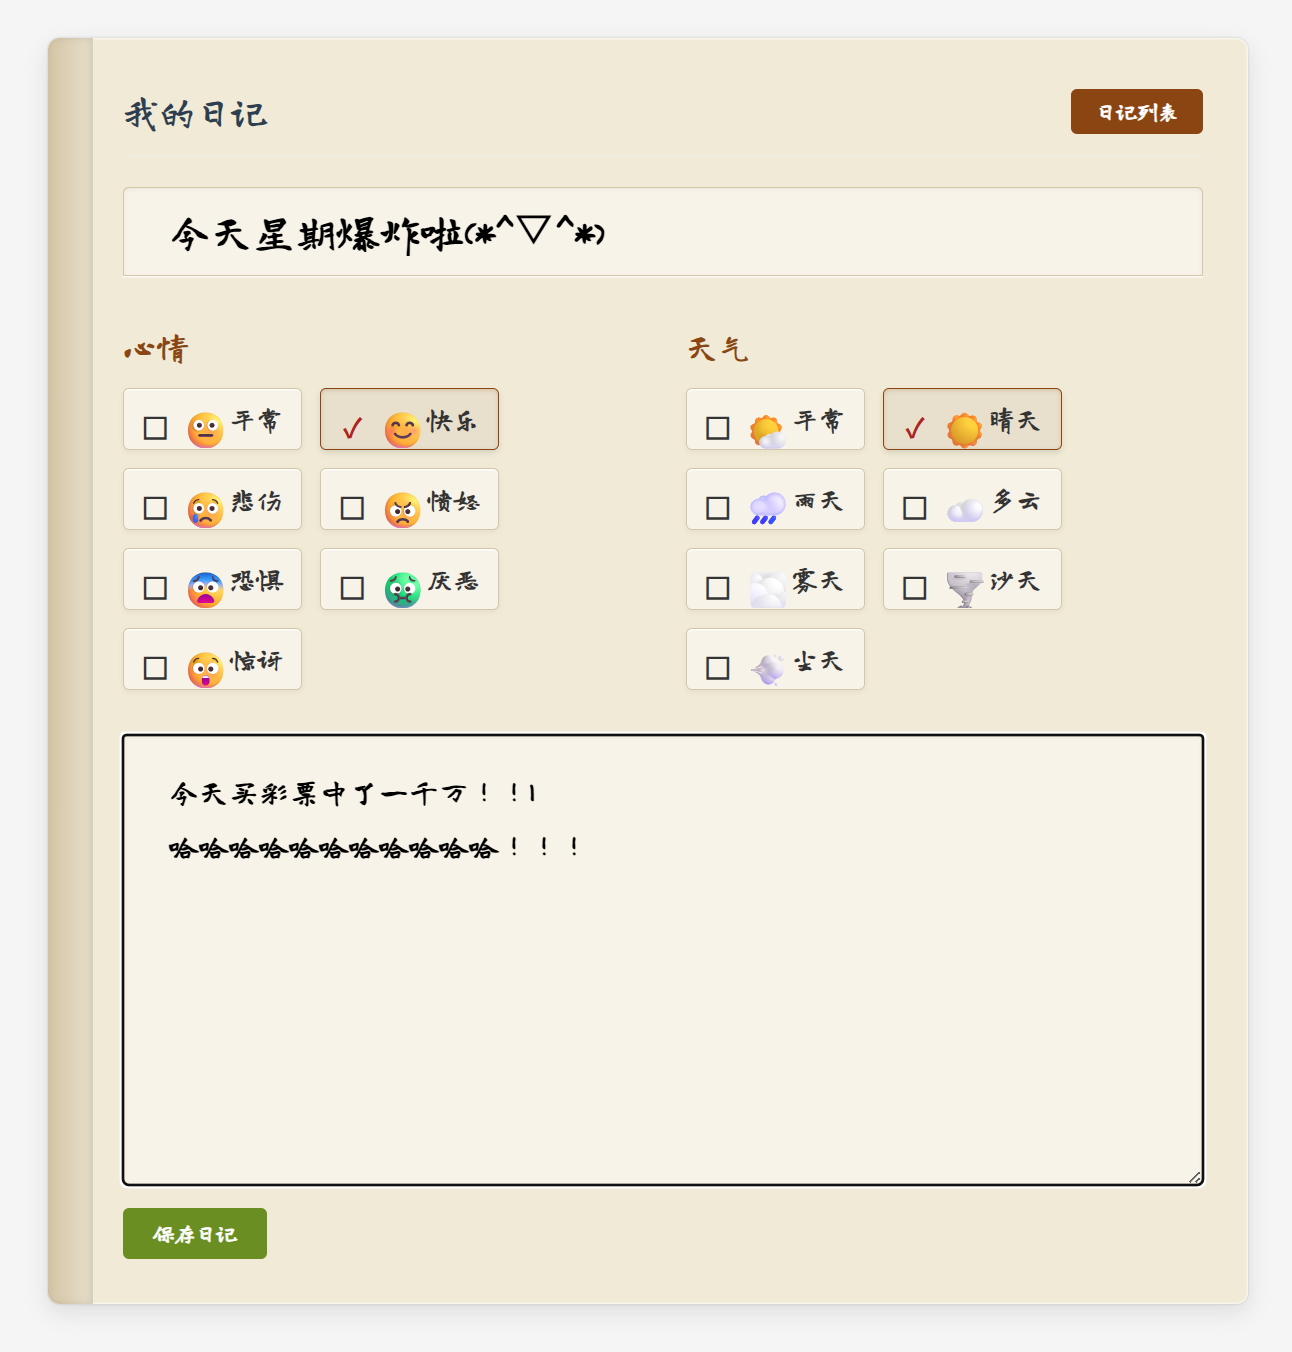
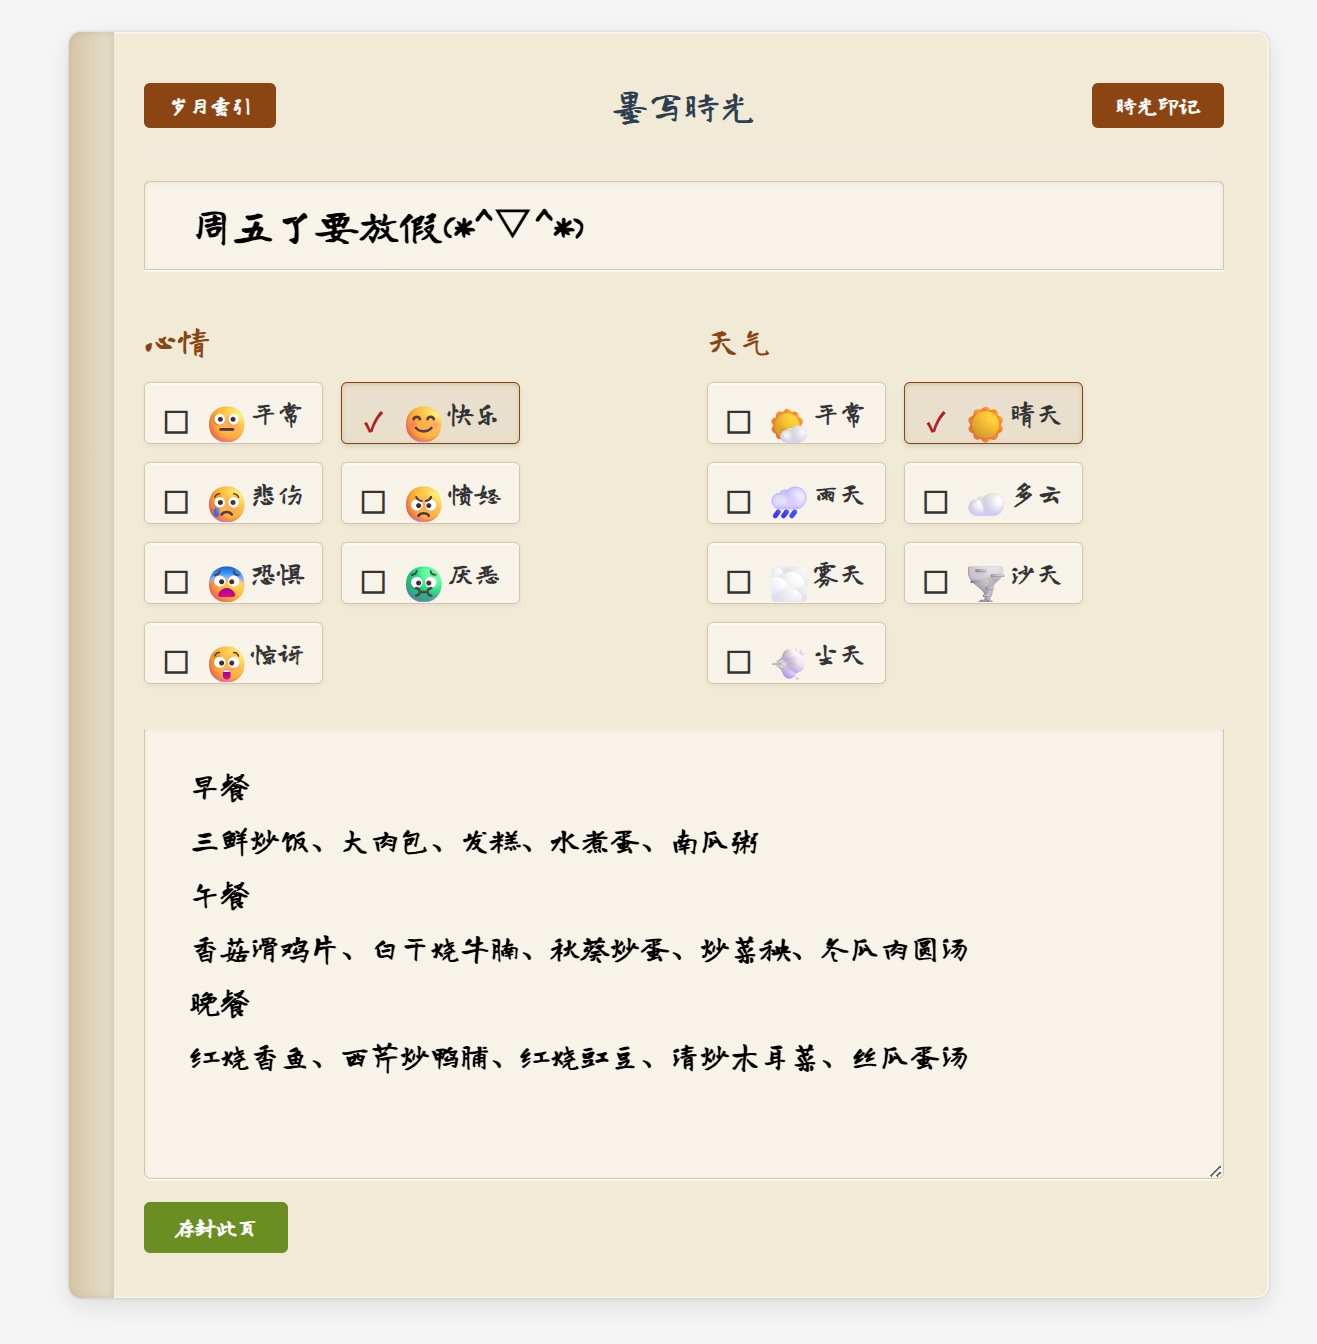
优化按钮

diff --git a/front/list.html b/front/list.html
@@ -3,7 +3,7 @@
 <head>
     <meta charset="UTF-8">
     <meta name="viewport" content="width=device-width, initial-scale=1.0">
-    <title>日记列表</title>
+    <title>岁月索引</title>
     <link rel="preconnect" href="https://fonts.googleapis.com">
     <link rel="preconnect" href="https://fonts.gstatic.com" crossorigin>
     <link href="https://fonts.googleapis.com/css2?family=Long+Cang&display=swap" rel="stylesheet">
@@ -12,14 +12,14 @@
 <body>
     <div class="container">
         <header>
-            <button id="new-diary">新建日记</button>
-            <h1>我的日记</h1>
-            <button id="dashboard">日记看板</button>
+            <button id="new-diary" style="background-color: #6B8E23;">墨写时光</button>
+            <h1>岁月索引</h1>
+            <button id="dashboard">时光印记</button>
         </header>
         <main>
             <div class="search-bar">
                 <input type="text" id="search-input" placeholder="搜索标题...">
-                <button id="search-btn">搜索</button>
+                <button id="search-btn">寻迹</button>
             </div>
             <div id="loading" class="loading">加载中...</div>
             <div id="diary-list" class="diary-list"></div>

diff --git a/front/index.html b/front/index.html
@@ -3,7 +3,7 @@
 <head>
     <meta charset="UTF-8">
     <meta name="viewport" content="width=device-width, initial-scale=1.0">
-    <title>日记 writer</title>
+    <title>日记本</title>
     <link rel="preconnect" href="https://fonts.googleapis.com">
     <link rel="preconnect" href="https://fonts.gstatic.com" crossorigin>
     <link href="https://fonts.googleapis.com/css2?family=Long+Cang&display=swap" rel="stylesheet">
@@ -12,9 +12,9 @@
 <body>
     <div class="container">
         <header>
-            <button id="back-to-list">返回列表</button>
-            <h1>写日记</h1>
-            <button id="dashboard">日记看板</button>
+            <button id="back-to-list">岁月索引</button>
+            <h1>墨写时光</h1>
+            <button id="dashboard">时光印记</button>
         </header>
         <main>
             <div class="diary-editor">
@@ -27,7 +27,7 @@
                 </div>
 
                 <textarea id="diary-content" placeholder="请输入日记内容..."></textarea>
-                <button id="save-btn">保存日记</button>
+                <button id="save-btn">存封此页</button>
             </div>
         </main>
     </div>

diff --git a/front/js/list.js b/front/js/list.js
@@ -85,7 +85,7 @@ const moodIcon = moodOptions.find(m => m.name === diary.mood)?.icon || '😐';
                 diaryItem.innerHTML = `
                     <div style="display: flex; justify-content: space-between; align-items: center; margin-bottom: 5px;">
                         <h3 style="font-size: 24px;font-weight: bold;margin: 0;">${diary.title}</h3>
-                        <button class="view-btn" data-id="${diary.id}">查看详情</button>
+                        <button class="view-btn" data-id="${diary.id}">回览</button>
                     </div>
                     <p class="diary-date">记录时间：${new Date(diary.create_time).toLocaleDateString()} <span style="margin: 0 15px;"></span>${moodIcon} ${diary.mood} <span style="margin: 0 15px;"></span>${weatherIcon} ${diary.weather}</p>
                     <p class="diary-excerpt">${diary.content.substring(0, 100)}${diary.content.length > 100 ? '...' : ''}</p>

diff --git a/front/detail.html b/front/detail.html
@@ -3,7 +3,7 @@
 <head>
     <meta charset="UTF-8">
     <meta name="viewport" content="width=device-width, initial-scale=1.0">
-    <title>日记详情</title>
+    <title>岁月档案</title>
     <link rel="preconnect" href="https://fonts.googleapis.com">
     <link rel="preconnect" href="https://fonts.gstatic.com" crossorigin>
     <link href="https://fonts.googleapis.com/css2?family=Long+Cang&display=swap" rel="stylesheet">
@@ -12,9 +12,9 @@
 <body>
     <div class="container">
         <header>
-            <button id="back-to-list">返回列表</button>
+            <button id="back-to-list">岁月索引</button>
             <h1 id="diary-title"></h1>
-            <button id="delete-btn">删除日记</button>
+            <button id="delete-btn">焚稿为星</button>
         </header>
         <main>
             <div id="loading" class="loading">加载中...</div>

diff --git a/front/dashboard.html b/front/dashboard.html
@@ -3,7 +3,7 @@
 <head>
     <meta charset="UTF-8">
     <meta name="viewport" content="width=device-width, initial-scale=1.0">
-    <title>时光印记 - 日记看板</title>
+    <title>时光印记</title>
     <link rel="preconnect" href="https://fonts.googleapis.com">
     <link rel="preconnect" href="https://fonts.gstatic.com" crossorigin>
     <link href="https://fonts.googleapis.com/css2?family=Long+Cang&display=swap" rel="stylesheet">
@@ -19,7 +19,7 @@
                 <h2 id="current-month"></h2>
                 <button id="next-month">下一月</button>
             </div>
-            <button id="back-to-list">返回列表</button>
+            <button id="back-to-list">岁月索引</button>
         </div>
 
         <div class="stats-container">
